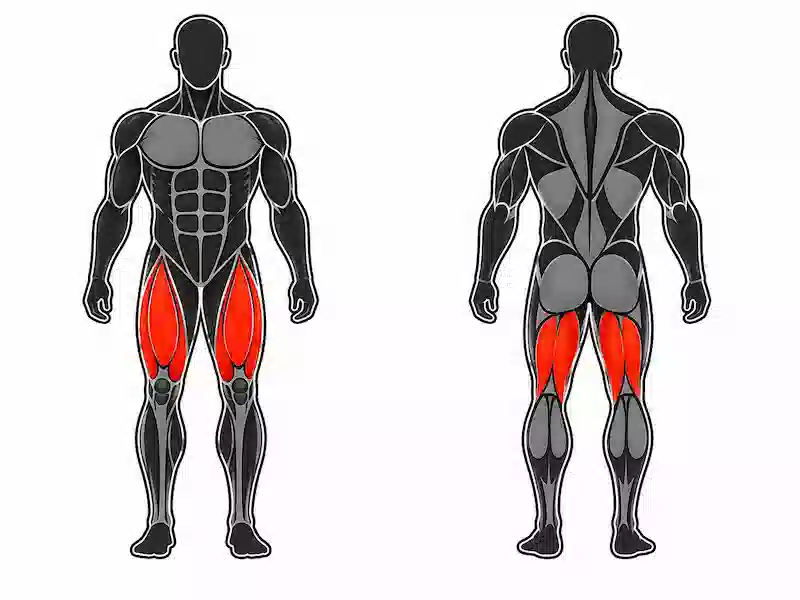
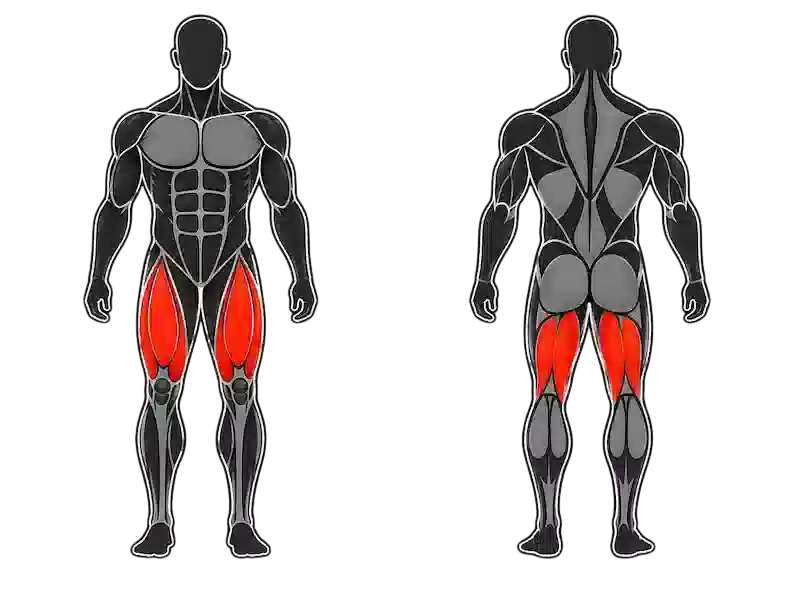
f

diff --git a/src/data/equipment.js b/src/data/equipment.js
@@ -18,6 +18,7 @@ import shoulderPressImage from '../assets/images/equipment/Shoulder Press Machin
 import wideChestPressImage from '../assets/images/equipment/wideChestPress.webp';
 import legPressImage from '../assets/images/equipment/Leg Press Machine.webp';
 import smithMachineImage from '../assets/images/equipment/Smith Machine.webp';
+import legPressMuscleIcon from '../assets/images/Muscle Target Icons/Leg Press Machine.webp';
 import bicepsCurlMuscleIcon from '../assets/images/Muscle Target Icons/biciepsCurl icon.webp';
 import flatBenchPressMuscleIcon from '../assets/images/Muscle Target Icons/FlatBarbellBenchPress.webp';
 import inclineBenchPressMuscleIcon from '../assets/images/Muscle Target Icons/InclineBarbellBenchPress.webp';
@@ -117,6 +118,7 @@ export const EQUIPMENT = [
   machine({ id: 'chest-supported-t-bar-row', name: 'Plate-Loaded Chest-Supported T-Bar Row', category: 'back', image: tBarRowImage, targetMuscles: ['الظهر الأوسط', 'الظهر العريض', 'الكتف الخلفي', 'البايسبس'], shortDescription: 'تجديف T-Bar مع دعم للصدر لتقليل تحميل أسفل الظهر.', difficulty: 'intermediate' }),
   machine({ id: 'cable-jungle', name: 'Multi-Station Cable Jungle', category: 'back', image: cableJungleImage, targetMuscles: ['الظهر', 'البايسبس', 'الترايسبس', 'الكتف'], shortDescription: 'محطة كيبل متعددة الاستخدامات لتمارين السحب والدفع والعزل.' }),
   machine({ id: 'leg-extension', name: 'Leg Extension Machine', category: 'legs', image: legExtensionImage, targetMuscles: ['الفخذ الأمامي'], shortDescription: 'تمرين عزل للفخذ الأمامي عبر مد الركبة.' }),
+  machine({ id: 'leg-press', name: 'Leg Press Machine', category: 'legs', image: legPressImage, muscleIcon: legPressMuscleIcon, targetMuscles: ['الفخذ الأمامي', 'المؤخرة', 'الفخذ الخلفي'], shortDescription: 'جهاز ضغط الأرجل لتقوية الجزء السفلي من الجسم مع تحكم جيد في الحركة.' }),
   machine({ id: 'prone-leg-curl', name: 'Prone Leg Curl Machine', category: 'legs', image: proneLegCurlImage, targetMuscles: ['الفخذ الخلفي', 'عضلات الساق الخلفية'], shortDescription: 'تمرين ثني الساق من وضع الانبطاح للفخذ الخلفي.' }),
   machine({ id: 'hip-abductor', name: 'Plate-Loaded Hip Abductor', category: 'legs', image: hipAbductorImage, targetMuscles: ['عضلات الفخذ الخارجية', 'المؤخرة'], shortDescription: 'جهاز تباعد الفخذ لتقوية عضلات الورك والمؤخرة.' }),
   machine({ id: 'roman-chair', name: 'Roman Chair', category: 'legs', image: romanChairImage, targetMuscles: ['أسفل الظهر', 'المؤخرة', 'الفخذ الخلفي'], shortDescription: 'جهاز إطالة الظهر لتقوية السلسلة الخلفية للجسم.', difficulty: 'intermediate' }),
